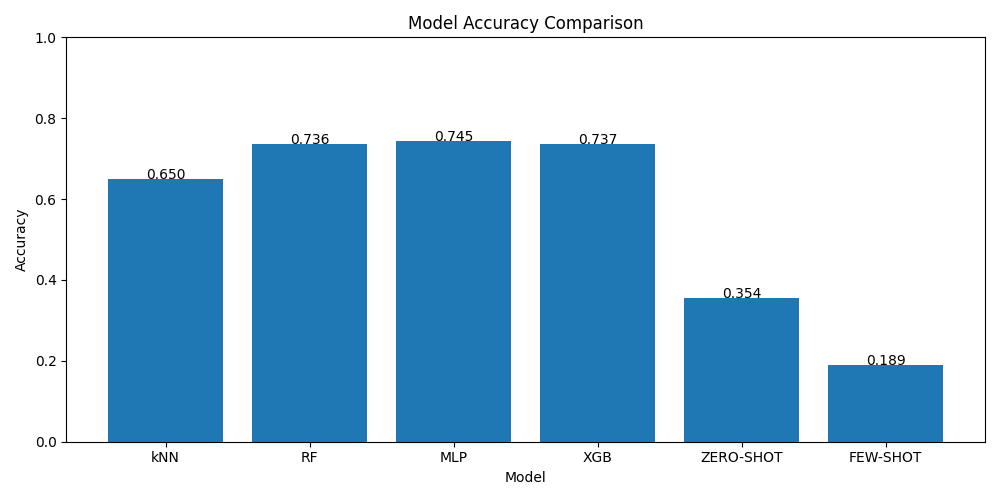
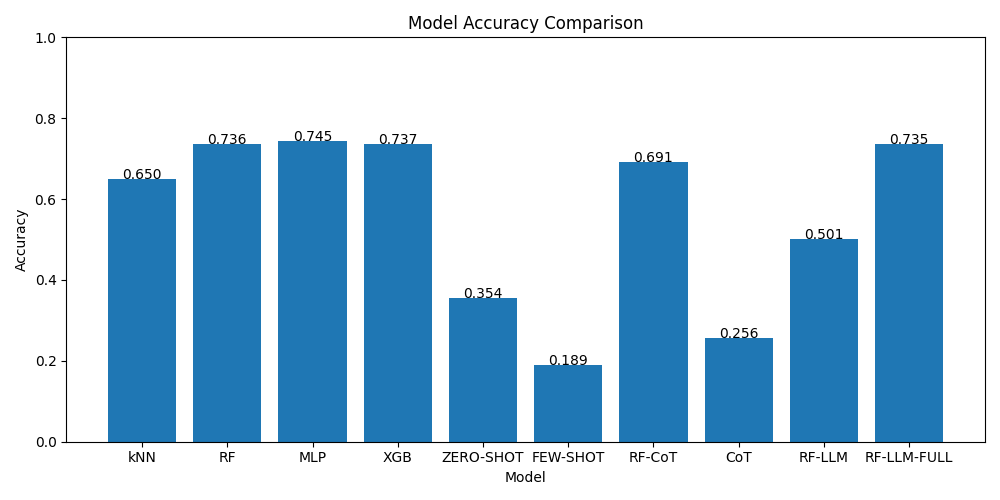
added DocStrings to llm.py and started README file

Changed region(s): [[0.124, 0.24, 0.961, 0.93], [0.279, 0.9, 0.341, 0.93]]

diff --git a/llm.py b/llm.py
@@ -32,6 +32,15 @@ run_lim = 10000000
 
 
 def test_llm():
+    """
+        A function to test LLM is installed and setup properly, and response to a prompt.
+
+        Args:
+            None
+
+        Returns:
+            None
+        """
     input_text = "Write me a poem about Physical Activity Classification."
     input_ids = tokenizer(input_text, return_tensors="pt").to("cuda")
 
@@ -46,7 +55,17 @@ def test_llm():
 
 
 def zero_shot_prompting(x_test, y_test):
+    """
+        Assess zero-shot prompting strategy on LLM. Record performance metrics on test set, and create
+        supporting graphs for analysis.
 
+        Args:
+            x_test (pandas.Dataframe): Dataframe containing testing data.
+            y_test (pandas.Series): Series containing training labels.
+
+        Returns:
+            None
+        """
     y_unencoded = remap_labels(y_test, "encode_to_label")
     pred_labels = []
 
@@ -102,11 +121,6 @@ def zero_shot_prompting(x_test, y_test):
     recall = recall_score(y_test[:len(pred_labels_encoded)], pred_labels_encoded, average="weighted")
     f1 = f1_score(y_test[:len(pred_labels_encoded)], pred_labels_encoded, average="weighted")
 
-    # acc = accuracy_score(y_test, pred_labels_encoded)
-    # prec = precision_score(y_test, pred_labels_encoded, average="weighted")
-    # recall = recall_score(y_test, pred_labels_encoded, average="weighted")
-    # f1 = f1_score(y_test, pred_labels_encoded, average="weighted")
-
     print(f"Accuracy: {acc * 100:.2f}%")
     print(f"Precision: {prec * 100:.2f}%")
     print(f"Recall: {recall * 100:.2f}%")
@@ -125,14 +139,19 @@ def zero_shot_prompting(x_test, y_test):
     class_comparison(class_report, model_type)
     predict_class_distribution(pred_labels_encoded, model_type)
 
-    # generate_cm(y_test, pred_labels_encoded, model_type)
-    # metric_comparison(model_data, model_type)
-    # class_report = classification_report(y_test, pred_labels_encoded, target_names=["light", "moderate-vigorous", "sedentary", "sleep"], output_dict=True)
-    # class_comparison(class_report, model_type)
-    # predict_class_distribution(pred_labels_encoded, model_type)
-
 
 def few_shot_prompting(x_train, y_train, x_test, y_test):
+    """
+        Assess few-shot prompting strategy on LLM. Record performance metrics on test set, and create
+        supporting graphs for analysis.
+
+        Args:
+            x_test (pandas.Dataframe): Dataframe containing testing data.
+            y_test (pandas.Series): Series containing training labels.
+
+        Returns:
+            None
+        """
     y_unencoded = remap_labels(y_test, "encode_to_label")
     pred_labels = []
 
@@ -141,7 +160,7 @@ def few_shot_prompting(x_train, y_train, x_test, y_test):
         sample_df = sample_training_data(x_train, y_train)
         sample_y = remap_labels(sample_df['encoded_label'], "encode_to_label")
 
-        zero_shot_template = f"""
+        few_shot_template = f"""
                     You are a physical activity classifier.
 
                     Predict the activity label from wrist accelerometer features.
@@ -209,7 +228,7 @@ def few_shot_prompting(x_train, y_train, x_test, y_test):
                     Answer:
                 """
 
-        input_ids = tokenizer(zero_shot_template, return_tensors="pt").to("cuda")
+        input_ids = tokenizer(few_shot_template, return_tensors="pt").to("cuda")
 
         outputs = model.generate(**input_ids,
                                  max_new_tokens=10,
@@ -252,12 +271,6 @@ def few_shot_prompting(x_train, y_train, x_test, y_test):
     class_comparison(class_report, model_type)
     predict_class_distribution(pred_labels_encoded, model_type)
 
-    # generate_cm(y_test, pred_labels_encoded, model_type)
-    # metric_comparison(model_data, model_type)
-    # class_report = classification_report(y_test, pred_labels_encoded, target_names=["light", "moderate-vigorous", "sedentary", "sleep"], output_dict=True)
-    # class_comparison(class_report, model_type)
-    # predict_class_distribution(pred_labels_encoded, model_type)
-
 
 def rf_cot(x_test, y_test):
     """
@@ -294,11 +307,6 @@ def rf_cot(x_test, y_test):
 
         total_rf_preds.append(pred_label) # record all rf predictions
 
-        # print(f"\nsample_pred: {sample_pred}")
-        # print(f"pred_id: {pred_id}")
-        # print(f"Confidence: {confidence}")
-        # print(f"Pred label: {pred_label}")
-
         # get margin between top 2 predictions
         sorted_confidences = np.sort(sample_pred)
         first = sorted_confidences[-1]
@@ -328,7 +336,7 @@ def rf_cot(x_test, y_test):
     print(f"Mean confidence: {np.mean(confidences)}")
     print(f"Min confidence: {np.min(confidences)}")
     print(f"Max confidence: {np.max(confidences)}")
-    print(f"No of low confidence: {count}/{len(x_test)}") # 892/5000 - 5hrs
+    print(f"No of low confidence: {count}/{len(x_test)}")
 
 
     # Full model results
@@ -431,39 +439,39 @@ def cot(x_test, pred_label, confidence):
     pred_label_unencoded = remap_labels([pred_label], "encode_to_label")
 
     cot_template = f"""
-                        You are an expert in physical activity classification.
-                        Review the following accelerometer feature set, compare it to interpretation guide and
-                        Determine whether a previous ML classifier correctly classified this data.
-                        If incorrect, provide a better label.
+        You are an expert in physical activity classification.
+        Review the following accelerometer feature set, compare it to interpretation guide and
+        Determine whether a previous ML classifier correctly classified this data.
+        If incorrect, provide a better label.
 
-                        Feature interpretation guide:
-                        - High std/rms/jerk = movement present. Low values = stillness.
-                        - sleep: near-zero std, jerk, and rms on all axes. Low dominant frequency.
-                        - sedentary: very low movement, some postural shifts. Low jerk.
-                        - light: moderate std and rms. Some rhythmic pattern in dominant frequency.
-                        - moderate-vigorous: high std, rms, jerk across axes. Elevated dominant frequency.
+        Feature interpretation guide:
+        - High std/rms/jerk = movement present. Low values = stillness.
+        - sleep: near-zero std, jerk, and rms on all axes. Low dominant frequency.
+        - sedentary: very low movement, some postural shifts. Low jerk.
+        - light: moderate std and rms. Some rhythmic pattern in dominant frequency.
+        - moderate-vigorous: high std, rms, jerk across axes. Elevated dominant frequency.
 
-                        Possible labels:
-                        light, moderate-vigorous, sedentary, sleep
+        Possible labels:
+        light, moderate-vigorous, sedentary, sleep
 
-                        Features:
-                        x-mean = {x_test['x_mean']:.2f}, y-mean = {x_test['y_mean']:.2f}, z-mean = {x_test['z_mean']:.2f}
-                        x-std = {x_test['x_std']:.2f}, y-std = {x_test['y_std']:.2f}, z-std = {x_test['z_std']:.2f}
-                        x-min = {x_test['x_min']:.2f}, y-min = {x_test['y_min']:.2f}, z-min = {x_test['z_min']:.2f}
-                        x-max = {x_test['x_max']:.2f}, y-max = {x_test['y_max']:.2f}, z-max = {x_test['z_max']:.2f}
-                        magnitude-mean = {x_test['magnitude_mean']:.2f}, magnitude-std = {x_test['magnitude_std']:.2f}
-                        rms = {x_test['rms']:.2f}, jerk = {x_test['jerk']:.2f}, dominant frequency = {x_test['dominant_freq']:.2f}
+        Features:
+        x-mean = {x_test['x_mean']:.2f}, y-mean = {x_test['y_mean']:.2f}, z-mean = {x_test['z_mean']:.2f}
+        x-std = {x_test['x_std']:.2f}, y-std = {x_test['y_std']:.2f}, z-std = {x_test['z_std']:.2f}
+        x-min = {x_test['x_min']:.2f}, y-min = {x_test['y_min']:.2f}, z-min = {x_test['z_min']:.2f}
+        x-max = {x_test['x_max']:.2f}, y-max = {x_test['y_max']:.2f}, z-max = {x_test['z_max']:.2f}
+        magnitude-mean = {x_test['magnitude_mean']:.2f}, magnitude-std = {x_test['magnitude_std']:.2f}
+        rms = {x_test['rms']:.2f}, jerk = {x_test['jerk']:.2f}, dominant frequency = {x_test['dominant_freq']:.2f}
 
-                        The ML Classifier predicted '{pred_label_unencoded[0]}' with {confidence}, but the margin to the next class was too close.
+        The ML Classifier predicted '{pred_label_unencoded[0]}' with {confidence}, but the margin to the next class was too close.
 
-                        This sample was considered unreasonable because the confidence between top predicted classes was too close.
-                        You must still choose the best activity label.
+        This sample was considered unreasonable because the confidence between top predicted classes was too close.
+        You must still choose the best activity label.
 
-                        Think step by step, then respond in EXACTLY this format:
+        Think step by step, then respond in EXACTLY this format:
 
-                        Reasoning: <step-by-step logic here>
-                        Final Answer: <one of: light, moderate-vigorous, sedentary, sleep>
-                    """
+        Reasoning: <step-by-step logic here>
+        Final Answer: <one of: light, moderate-vigorous, sedentary, sleep>
+    """
 
     # print(cot_template)
     input_ids = tokenizer(cot_template, return_tensors="pt").to("cuda")
@@ -488,6 +496,15 @@ def cot(x_test, pred_label, confidence):
 
 
 def extract_label(response):
+    """
+        Extract the activity label from zero-shot and few-shot prompting strategies.
+
+        Args:
+            response (String): Textual response generated by LLM from prompt
+
+        Returns:
+            label (String): returns the final activity label from llm response
+        """
     if "Answer:" in response:
         response = response.split("Answer:")[-1]
 
@@ -501,6 +518,17 @@ def extract_label(response):
     return "N/A"
 
 def extract_label_cot(response, ml_prediction):
+    """
+        Extract the activity label from CoT prompting strategy.
+
+        Args:
+            response (String): Textual response generated by LLM from prompt
+            ml_prediction (String): original activity classified by ml classifier
+
+        Returns:
+            last_label (String): returns the final activity label from llm response
+            ml_prediction (String): returns the ml_prediction if no label found
+        """
     if "Answer:" in response:
         response = response.split("Answer:")[-1]
 
@@ -514,11 +542,22 @@ def extract_label_cot(response, ml_prediction):
             last_pos = pos
             last_label = label
 
+    # return orgininal ml prediction as a fallback if no final activity can be found in response
     return last_label if last_label else ml_prediction
 
 
 def sample_training_data(x_train, y_train):
-    # take a random sample for each label for few shot prompting
+    """
+        Take a random sample from training dataset to be used as examples in
+        few-shot prompting
+
+        Args:
+            x_train (pandas.DataFrame): Dataframe containing training data.
+            y_train (pandas.Series): Series containing training labels.
+
+        Returns:
+            sample_df (pandas.DataFrame): returns a dataframe of 4 randomly samples class examples
+        """
 
     df = x_train.copy()
     df['encoded_label'] = y_train

diff --git a/model_analysis.py b/model_analysis.py
@@ -202,30 +202,5 @@ def model_accuracy_analysis():
     plt.show()
 
 
-# def fine_tune_results(file):
-    # create scatter graph of model results
-    # models = ["knn", "mlp", "rf", "xgb"]
-    # colours = ["green", "red", "blue", "purple"]
-    #
-    # for idx, model in enumerate(models):
-    # # for model in models:
-    #     df = pd.read_csv(f"results\\{model}_fine_tune_results.csv")
-    #     x_values = df['mean_test_score']
-    #     y_values = df['std_test_score']
-    #     plt.scatter(x_values, y_values, colour=colours[idx], label=model)
-    #
-    #     # mean_test_score, std_test_score
-    #
-    # plt.xlabel('Model Mean Accuracy Score')
-    # plt.ylabel('Model STD Accuracy Score')
-    # plt.title('All DT, MLP & kNN Models Mean Accuracy Comparison')
-    # plt.legend(['DT', 'MLP', 'kNN', 'Base DT', 'Base MLP', 'Base kNN'])
-    # # plt.savefig("graphs/Models_mean_accuracy_comparison.png")
-    # plt.show()
-    # pass
-
-
-
 if __name__ == "__main__":
     model_accuracy_analysis()
-    # fine_tune_results()

diff --git a/README.md b/README.md
@@ -1,0 +1,69 @@
+# Large Language Models (LLM) enabled Physical Activity Classification (PAC) using Wearable Devices
+
+Third Year Project for University of East Anglia.
+## Overview
+This project aims to investigate the feasibility of using lightweight Large Language Models for
+physical activity classification using wearable sensor data by comparing performance to a set
+of benchmark traditional machine learning classifiers. Rather than change the internal structure
+of the LLM, prompt engineering will be used to embed raw data into the model’s input. Three
+different types of prompt engineering strategies will be used: zero-shot, few-shot and Chainof-Thought. As well as reviewing the overall ability of a lightweight Large Language Model
+for classification, the effect of using differing prompting strategies and how it affects
+classification accuracy will be looked at
+
+## Models used
+### Traditional Machine Learning Models
+- k-Nearest Neighbours
+- XGBoost
+- Random Forest
+- Multi-layer Perceptron
+
+### Large Language Model
+- Gemma-2B-it
+
+### Prompt Engineering Strategies
+- Zero-shot Prompting
+- Few-shot Prompting
+- Chain-of-Thought (CoT) Reasoning
+- Random Forest + CoT Hybrid System
+
+## Feature engineering
+Sensor data taken from the Capture24 dataset was segmented using a sliding window with 50% overlap. The following features were extracted:
+- X,Y,Z mean
+- X,Y,Z std
+- X,Y,Z min
+- X,Y,Z max
+- Magnitude mean
+- Magnitude std
+- RMS
+- Jerk
+- Dominant Frequency
+- Label (mode)
+
+## How to use the project
+Instructions on how to run code
+
+
+
+## Packages
+The project was developed using Python and requires the following libraries:
+- Pandas
+- Numpy
+- SciKit
+- Matplotlib
+- Seaborn
+- Pickle
+- XGBoost
+- Torch
+- Transformers
+
+Additional requirements:
+- Python 3.10+
+- CUDA compatible GPU for LLM inference
+- HuggingFace authorisation for Gemma-2b-it
+
+## Results Summary
+small summary of results
+
+## Author
+Developed by Liam Barry, 
+University of East Anglia
